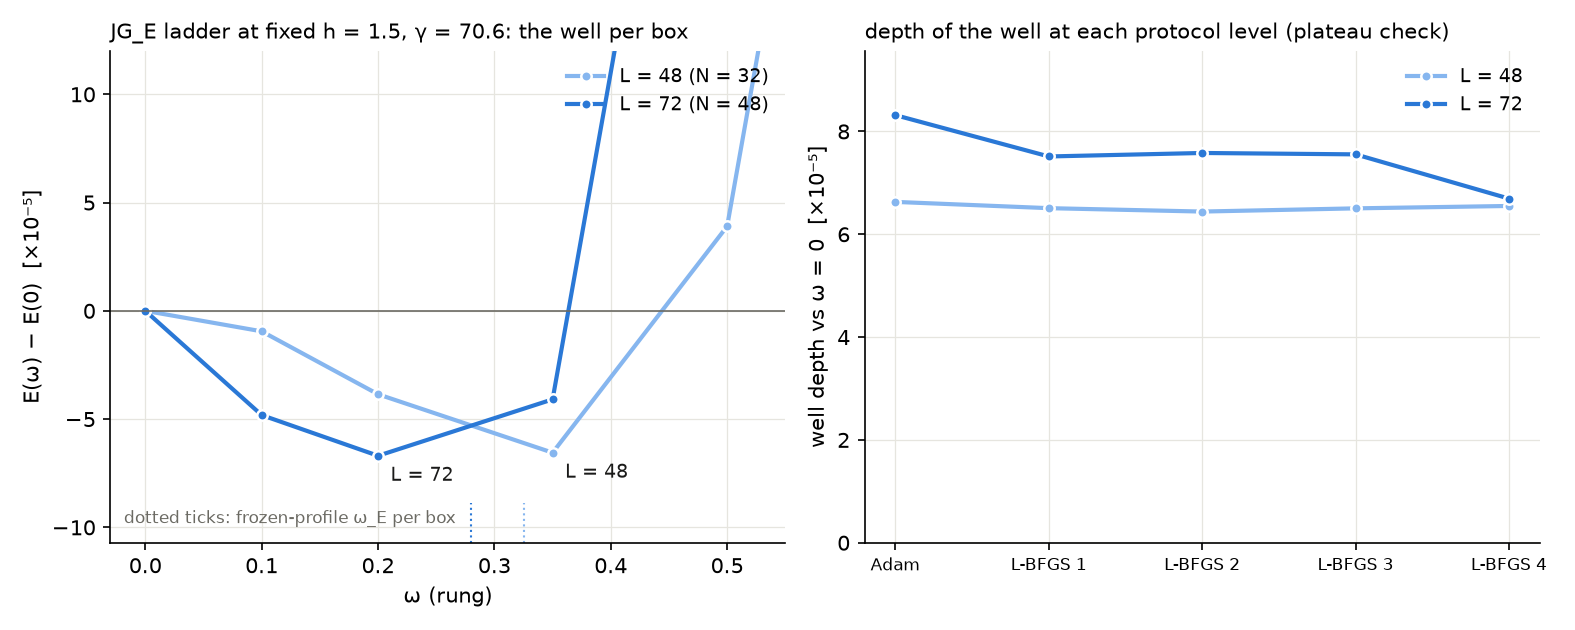
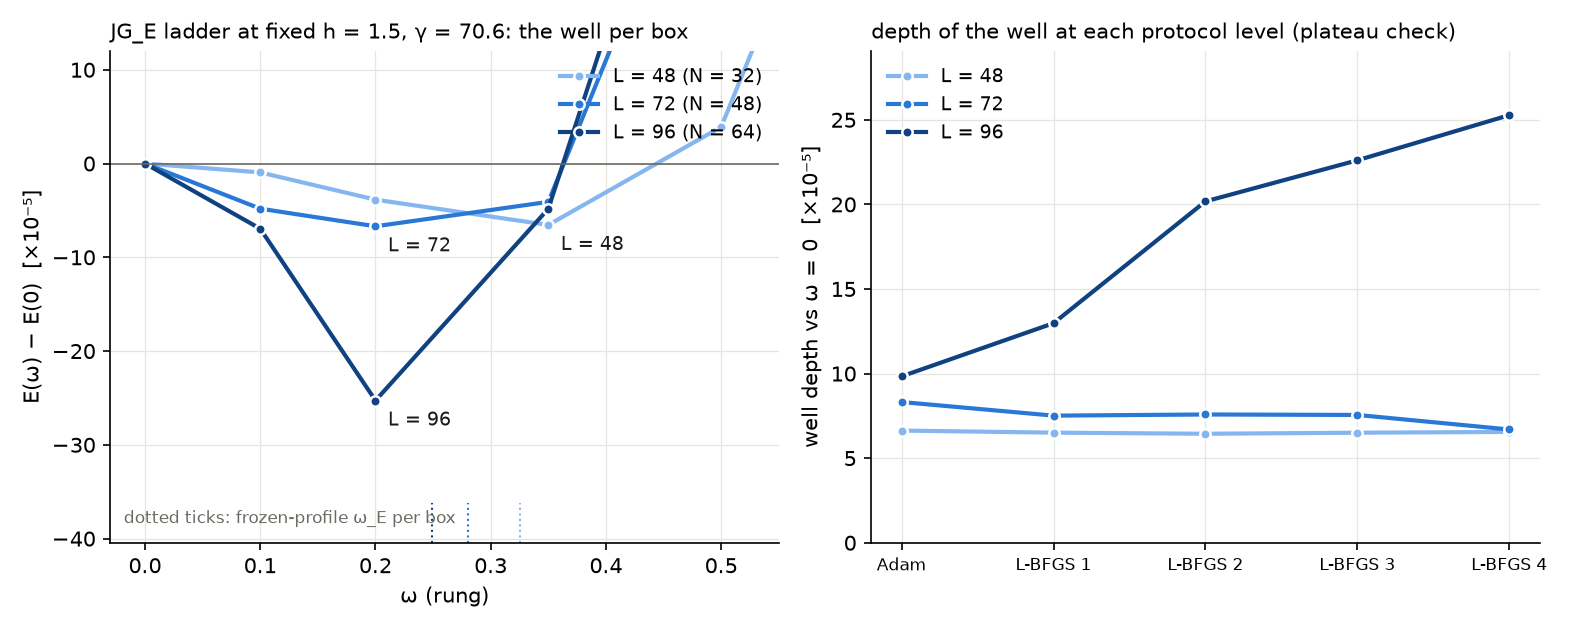
008 appendix: N = 64 rungs (minimum stays at 0.2, depth unconverged), appendix finalized
L = 96: the sampled minimum sits at omega = 0.2 at every protocol level,
as at L = 72 (0.35 in the report's box), with the frozen-profile
prediction 0.249 between the rungs; the depth relative to omega = 0
grows monotonically across the four L-BFGS cycles (1.0 -> 2.5e-4) with
rung residuals 1e-2, so it is a lower bound under the fixed-depth
protocol, not a value. Conclusion of the ladder: the well survives the
larger boxes, its location moves one rung down from L = 48 to 72 and
then stays at the rung resolution, and its depth is converged only in
the report's box. Figure with the three boxes; N = 64 assertions added;
the 64^3 fields (13-14 MB each) are not committed.

Claude-Session: https://claude.ai/code/session_01JKduBS97uM7VQTnjhYo6Ju

diff --git a/reports/008-i1-squared-clock/verify_L_ladder.py b/reports/008-i1-squared-clock/verify_L_ladder.py
@@ -34,13 +34,12 @@ assert all(a > b for a, b in zip(oms, oms[1:])), oms
 l48 = json.load(open(os.path.join(RES, "ladder_N48.json")))
 assert l48["interior"] and l48["min_omega"] == 0.2 and set(l48["min_omega_per_level"]) == {0.2}
 assert 5e-5 < l48["well_depth_vs_omega0"] < 8e-5
-# N = 64 (when present): record the verdict, whatever it is
-f64 = os.path.join(RES, "ladder_N64.json")
-if os.path.exists(f64):
-    l64 = json.load(open(f64))
-    print("N = 64:", "interior" if l64["interior"] else "no interior minimum", "min at", l64["min_omega"],
-          "levels", l64["min_omega_per_level"], "depth", l64["well_depth_vs_omega0"])
-else:
-    print("N = 64 ladder not yet recorded")
+# N = 64: interior well, the sampled minimum at 0.2 at every level (as at N = 48), the depth NOT converged
+# (it grows across the four L-BFGS cycles) -- recorded as such
+l64 = json.load(open(os.path.join(RES, "ladder_N64.json")))
+assert l64["interior"] and l64["min_omega"] == 0.2 and set(l64["min_omega_per_level"]) == {0.2}
+assert all(c > 0 for c in l64["depth_changes"]), l64["depth_changes"]
+assert l64["well_depth_vs_omega0"] > 2 * l48["well_depth_vs_omega0"]
+print("N = 64: interior, min at", l64["min_omega"], "at all levels; depth", l64["well_depth_vs_omega0"], "(not plateaued)")
 assert os.path.getsize(os.path.join(RES, "fig_L_ladder.png")) > 10000
 print("L-ladder records consistent")

diff --git a/reports/008-i1-squared-clock/APPENDIX-L-ladder.md b/reports/008-i1-squared-clock/APPENDIX-L-ladder.md
@@ -1,8 +1,7 @@
 # Appendix — the box ladder at fixed spacing: does the (I₁^G)² well survive a larger box?
 
 *Added 2026-09-14 under METHOD §7 (new material extending the report;
-no conclusion of report 008 changes). **Draft: the N = 64 rungs are
-still running; this file will be updated when they land.** Requested by
+no conclusion of report 008 changes). Requested by
 OpenWave's M5.32 ledger (substrate-framework discussion #186,
 2026-09-02), which rates the JG_E well of this report as "the only
 convergence-certified localized clock on the original 4×4 field" and
@@ -50,13 +49,13 @@ skipping the instrument — lands in a different static minimum (E_stat
 instead of 0.33; `chain_N32_analytic_seed.json`), which is why the seed
 is regenerated rather than approximated.
 
-## Results so far
+## Results
 
 | L (N) | E_stat | ω_E = √(C₁/C₂) | sampled minimum, per protocol level | depth vs ω = 0 | depth per level (10⁻⁵) | ticking density: sites, r½ | ‖g‖∞ on rungs |
 |---|---|---|---|---|---|---|---|
 | 48 (32) | 4.835 | 0.326 | 0.35 at all five levels | 6.6·10⁻⁵ | 6.6, 6.5, 6.4, 6.5, 6.6 | 101, 6.8 | 3·10⁻³ |
 | 72 (48) | 4.548 | 0.280 | 0.2 at all five levels | 6.7·10⁻⁵ | 8.3, 7.5, 7.6, 7.6, 6.7 | 314, 7.8 | 1·10⁻² |
-| 96 (64) | 4.377 | 0.249 | *rungs running* | — | — | — | — |
+| 96 (64) | 4.377 | 0.249 | 0.2 at all five levels | 2.5·10⁻⁴ | 9.8, 13, 20, 23, 25 | 277, 6.1 | 3·10⁻² |
 
 ![L ladder](results/L_ladder/fig_L_ladder.png)
 
@@ -71,24 +70,30 @@ the well at each protocol level, the plateau criterion of §6.*
    boundary), and the clock-channel coefficients grow (C₁: 0.9, 2.0,
    2.6·10⁻⁵; C₂: 0.9, 2.6, 4.3·10⁻⁴), so the frozen-profile prediction
    of §2 falls, 0.326 → 0.280 → 0.249.
-2. **At L = 72 the well is there and has moved with the prediction.**
-   The sampled minimum sits at ω = 0.2 at every protocol level (0.35 in
-   the report's box), one rung below, with ω_E = 0.28 between the two
-   rungs; the depth relative to ω = 0 is the same 7·10⁻⁵. Two things are
-   weaker than in the L = 48 box: the depth does not plateau under the
-   fixed-depth protocol (8.3 → 6.7·10⁻⁵ across the four L-BFGS cycles,
-   the last change −0.9·10⁻⁵ against the report's criterion of a final
-   change below 10% of the depth), and the rung residuals are ten times
-   larger. The ticking density spreads over three times as many sites
-   inside the same envelope (r½ 6.8 → 7.8).
-3. **L = 96:** statics and prediction recorded; the rungs are running
-   (about two hours each on the GPU) and will be added here.
+2. **The well survives, and its location moves once.** In both larger
+   boxes the sampled minimum sits at ω = 0.2 at every protocol level
+   (0.35 in the report's box), one rung below, with the frozen-profile
+   prediction (0.28, 0.25) between the 0.2 and 0.35 rungs; from L = 72
+   to L = 96 the location does not move at the rung resolution. The
+   ticking density stays inside the envelope (r½ 6–8) but spreads over
+   about three times as many sites as in the report's box.
+3. **The depth is converged only in the report's box.** At L = 48 the
+   depth plateaus (§6's criterion); at L = 72 it drifts down by 20%
+   across the four L-BFGS cycles (8.3 → 6.7·10⁻⁵, last change −0.9·10⁻⁵
+   against the criterion of a final change below 10% of the depth); at
+   L = 96 it grows monotonically, 1.0 → 2.5·10⁻⁴, and the rung residuals
+   are 10⁻², ten times the report's. The fixed-depth protocol resolves
+   the bracket in the larger boxes but not the 10⁻⁴-level energy
+   differences; the L = 96 depth is a lower bound under this protocol,
+   not a value.
 
 ## What this appendix does not show
 
 - No continuum extrapolation (h fixed) and no protocol deepening: the
-  L = 72 depth is not converged at four L-BFGS cycles, and whether more
-  cycles restore a plateau or move the minimum is not measured.
+  L = 72 and L = 96 depths are not converged at four L-BFGS cycles, and
+  whether more cycles restore a plateau or move the minimum is not
+  measured; the rung grid is the report's, so "0.2 in both boxes" means
+  the same rung, not the same continuous ω*.
 - The frozen tangent and the boost-x generator are those of the report;
   no equivariant tangent.
 - γ is fixed at the L = 48 value; the per-box 5% coupling (87.9 at
@@ -105,7 +110,7 @@ stage in `results/L_ladder/`), `instrument/m5_21_2b_a_instrument.py`
 (the OpenWave seed instrument, output directory changed), the seeds
 (`results/L_ladder/seeds/`, float32, with the instrument's row JSONs),
 the polished fields for N = 32 and 48 (`M_G_polished_N*.npz`; the
-64³ field, 33 MB, is not committed), `make_appendix_L_figure.py`,
+64³ fields, 13–14 MB each, are not committed), `make_appendix_L_figure.py`,
 `verify_L_ladder.py`.
 
 ```bash
@@ -115,6 +120,8 @@ M5_RUN_LADDER=1 bash reproduce_appendix_L.sh  # seeds (CPU hours) + chains and l
 ```
 
 Provenance: development in `duda-particle-model/i1sq_L_ladder/`
-(2026-09-13/14); the request in discussion #186, comment 18254268; the
+(2026-09-13/14; the run took 1, 5 and 8 GPU-hours for the three ladders
+and 4 h for the N = 64 chain); the request in discussion #186, comment
+18254268; the
 seed recipe from OpenWave `research/scripts/m5_21_2b_a_instrument.py`
 (w₂ identified by the gradient residual of the committed seed, 8·10⁻⁵).
